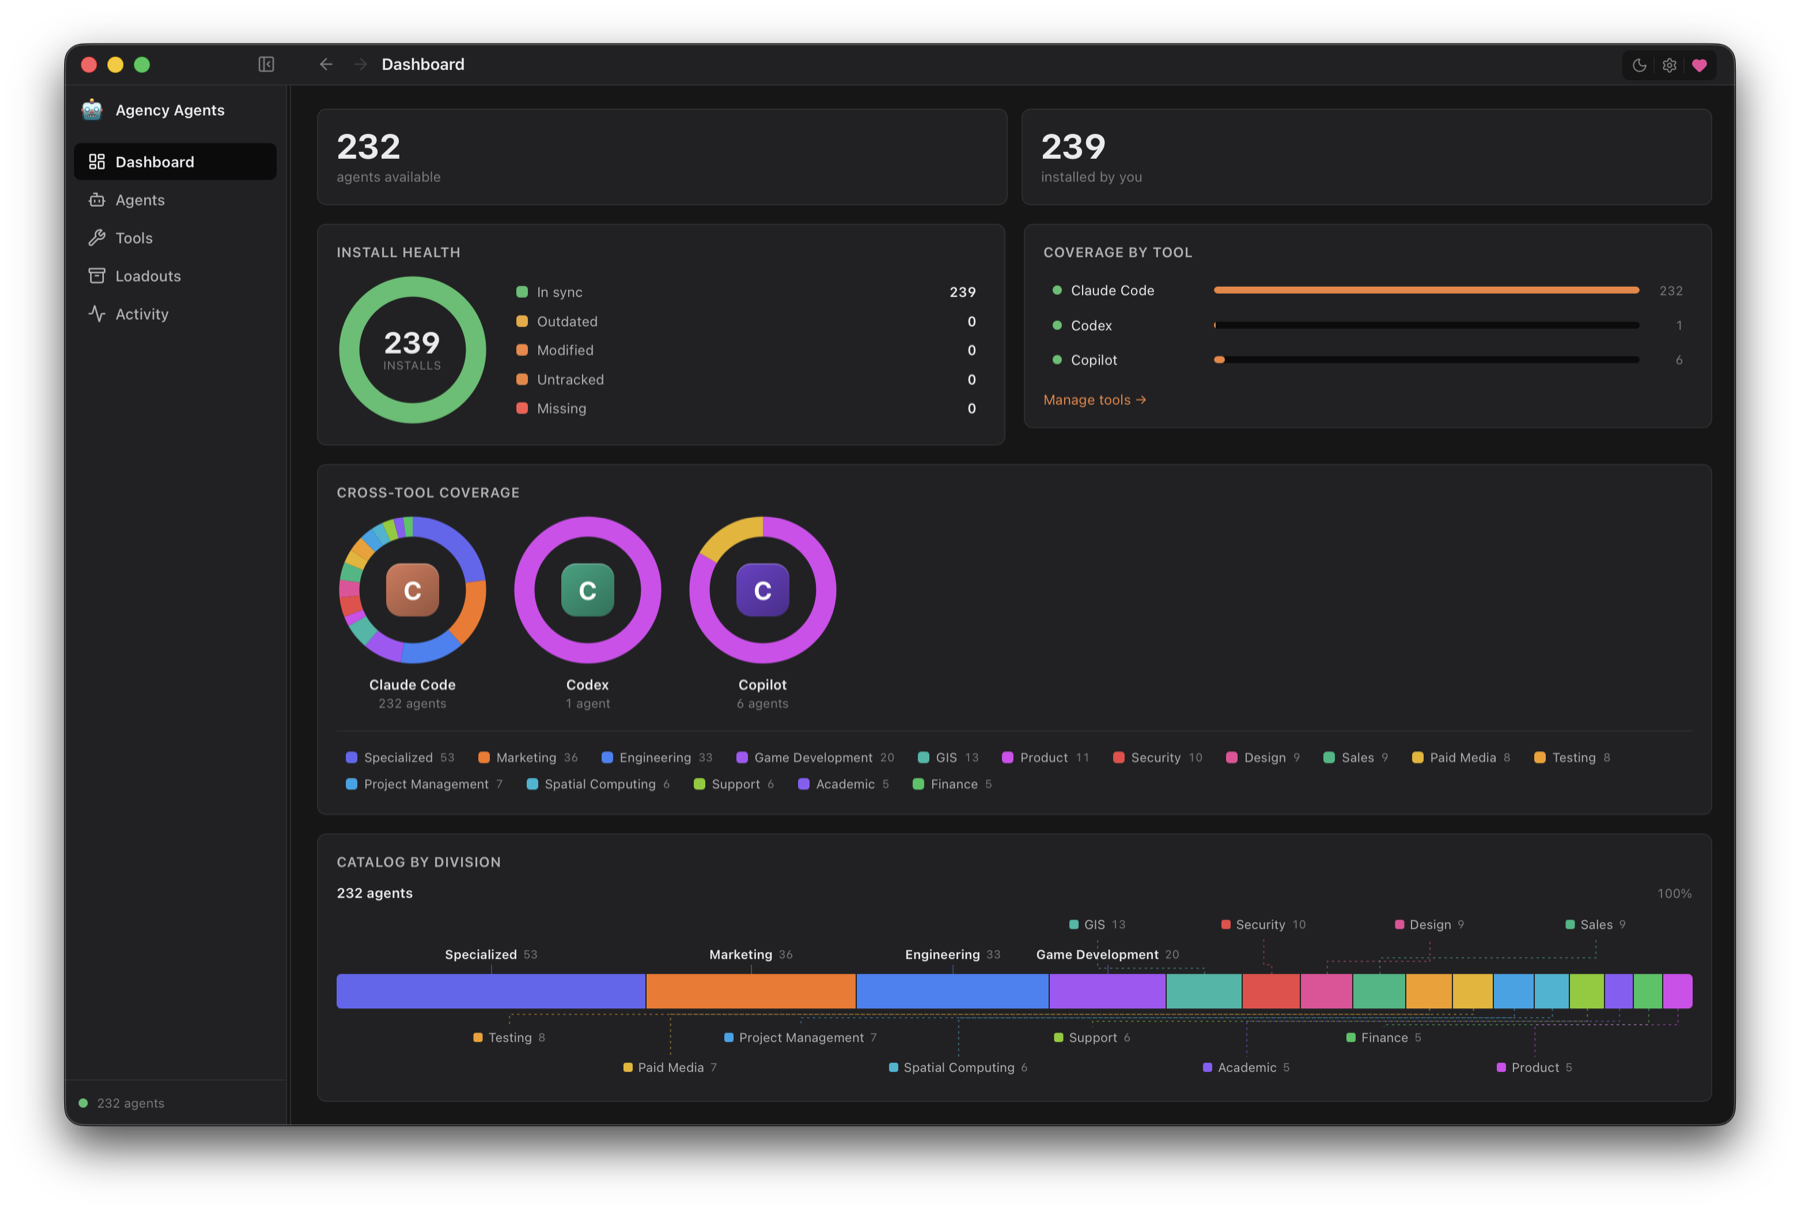
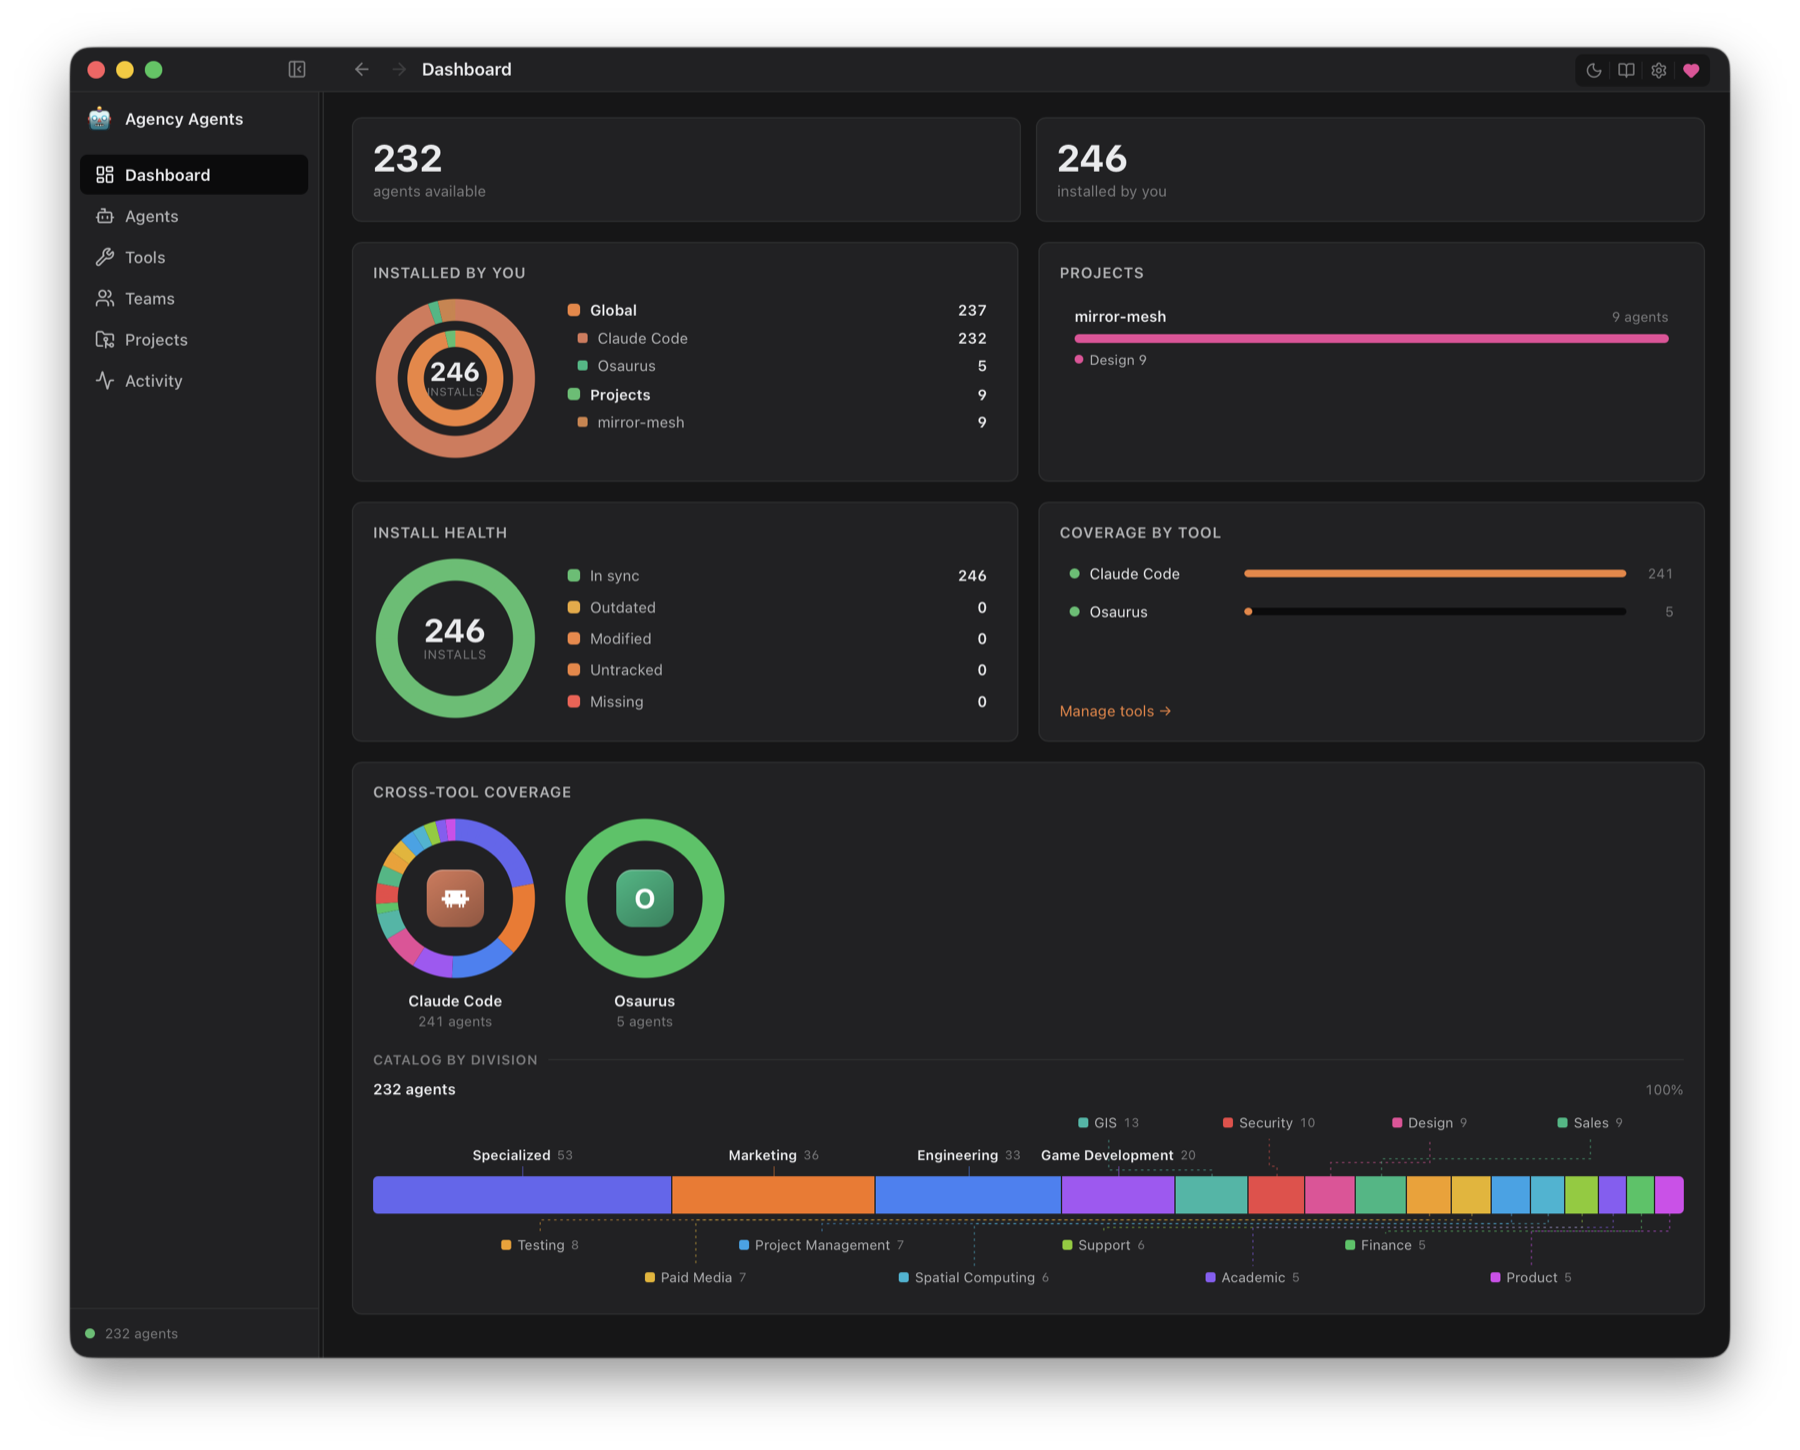
docs(landing,readme): v0.2.0 pass + refreshed dashboard screenshots
- landing/index.html: softwareVersion 0.1.0→0.2.0; Loadouts → Teams; new
  Projects + Auto-update feature cards; Osaurus added to the renderers blurb
  and the install-target badges; screenshot alt-text counts updated.
- README.md: added the Auto-update feature (live macOS Apple Silicon + Intel,
  v0.2.0) and noted the Dashboard/Agents "needs attention" filter.
- landing/screenshots/dashboard-{dark,light}.png: refreshed to the current
  v0.2.0 dashboard (Teams/Projects nav, Osaurus, install health).

diff --git a/landing/index.html b/landing/index.html
@@ -64,7 +64,7 @@
     "operatingSystem": "macOS 13+, Windows, Linux",
     "url": "https://agencyagents.app/",
     "downloadUrl": "https://github.com/msitarzewski/agency-agents-app/releases/latest",
-    "softwareVersion": "0.1.0",
+    "softwareVersion": "0.2.0",
     "license": "https://opensource.org/licenses/MIT",
     "author": {
       "@type": "Person",
@@ -104,7 +104,7 @@
       <figure class="hero-shot">
         <picture>
           <source srcset="/screenshots/dashboard-dark.png" media="(prefers-color-scheme: dark)">
-          <img src="/screenshots/dashboard-light.png" alt="Agency Agents — Dashboard: 232 agents available, 239 installed, install-health donut, coverage by tool, per-tool cross-tool coverage donuts, and the catalog-by-division bar." loading="lazy">
+          <img src="/screenshots/dashboard-light.png" alt="Agency Agents — Dashboard: 232 agents available, 246 installed, install-health donut, coverage by tool, per-tool cross-tool coverage donuts, and the catalog-by-division bar." loading="lazy">
         </picture>
         <figcaption>The Dashboard — install health, cross-tool coverage, and the catalog by division.</figcaption>
       </figure>
@@ -140,13 +140,23 @@
         </div>
 
         <div class="feature">
-          <h3>Loadouts</h3>
-          <p>Save and restore groups of agents as portable Agentfiles. Stand up a fresh machine, or share a curated set, in one move.</p>
+          <h3>Teams</h3>
+          <p>App-bundled preset teams plus your own saved teams — open one for a detail panel with Deploy built in. Still exports and imports portable Agentfiles to stand up a fresh machine or share a curated set.</p>
+        </div>
+
+        <div class="feature">
+          <h3>Projects</h3>
+          <p>Scope installs to a specific project, not just globally. A dedicated Projects panel and a destinations &times; tools install grid let a repo get exactly the agents and tools it needs.</p>
+        </div>
+
+        <div class="feature">
+          <h3>Auto-update</h3>
+          <p>The app checks a signed manifest and installs new versions in place &mdash; verified against an embedded key, one click to install and relaunch. New in v0.2.0, on Apple Silicon and Intel.</p>
         </div>
 
         <div class="feature">
           <h3>Deterministic renderers</h3>
-          <p>Per-tool converters with byte-for-byte parity against the upstream <code>agency-agents</code> converter — Claude Code, Codex, Gemini CLI, Copilot, Qwen, Cursor, and opencode. What the app writes is exactly what the catalog defines.</p>
+          <p>Per-tool converters with byte-for-byte parity against the upstream <code>agency-agents</code> converter — Claude Code, Codex, Gemini CLI, Copilot, Qwen, Cursor, opencode, and Osaurus. Tool knowledge is a single shared <code>tools.json</code>, so what the app writes is exactly what the catalog defines.</p>
         </div>
 
         <div class="feature">
@@ -172,6 +182,7 @@
         <div class="badge"><code>Qwen Code</code></div>
         <div class="badge"><code>Cursor</code></div>
         <div class="badge"><code>opencode</code></div>
+        <div class="badge"><code>Osaurus</code></div>
       </div>
       <p class="small-note">Renderer-backed targets with deterministic byte parity to the upstream converter. More integrations (Antigravity, Aider, Windsurf, OpenClaw, Kimi) need additional app work before they're exposed as first-class installs.</p>
     </section>

diff --git a/README.md b/README.md
@@ -40,7 +40,8 @@ Agency Agents is organized around four pillars — **Agents** (who), **Tools** (
 - **Teams** — app-bundled preset teams plus your own saved teams; open a team for a detail panel with Deploy built in. (Teams replaces the earlier "Loadouts" concept; Agentfile export/import remains.)
 - **Projects** — project-scoped installs with a dedicated panel and master/detail navigation, so a project gets exactly the agents and tools it needs.
 - **Install tracking** — records every app-managed install with source hash, rendered hash, tool, destination, scope, and project path where relevant.
-- **Reconciliation** — classifies installed files as current, outdated, modified, removed, or foreign by re-rendering canonical source and comparing bytes.
+- **Reconciliation** — classifies installed files as current, outdated, modified, removed, or foreign by re-rendering canonical source and comparing bytes. The Dashboard surfaces what "needs attention," and the Agents pane filters to exactly those.
+- **Auto-update** — checks a signed update manifest and installs new versions in place, verified against an embedded key, with one-click install + relaunch. Live for macOS (Apple Silicon + Intel) as of v0.2.0; opt-in and gated by Settings.
 - **Tool registry** — tool knowledge lives in a single upstream-owned `tools.json` shared by the backend and frontend; adding a tool is editing one JSON entry, and installability is derived from whether the app ships a renderer for that tool's format.
 - **Dashboard** — install health, a Global-vs-Projects install sunburst, cross-tool coverage merged with the catalog-by-division view (linked hover), and deep links back into the workspace.
 - **GitHub integration** — optional OAuth Device Flow for GitHub-backed app features. Tokens are stored in the platform keychain and are never returned to the frontend.